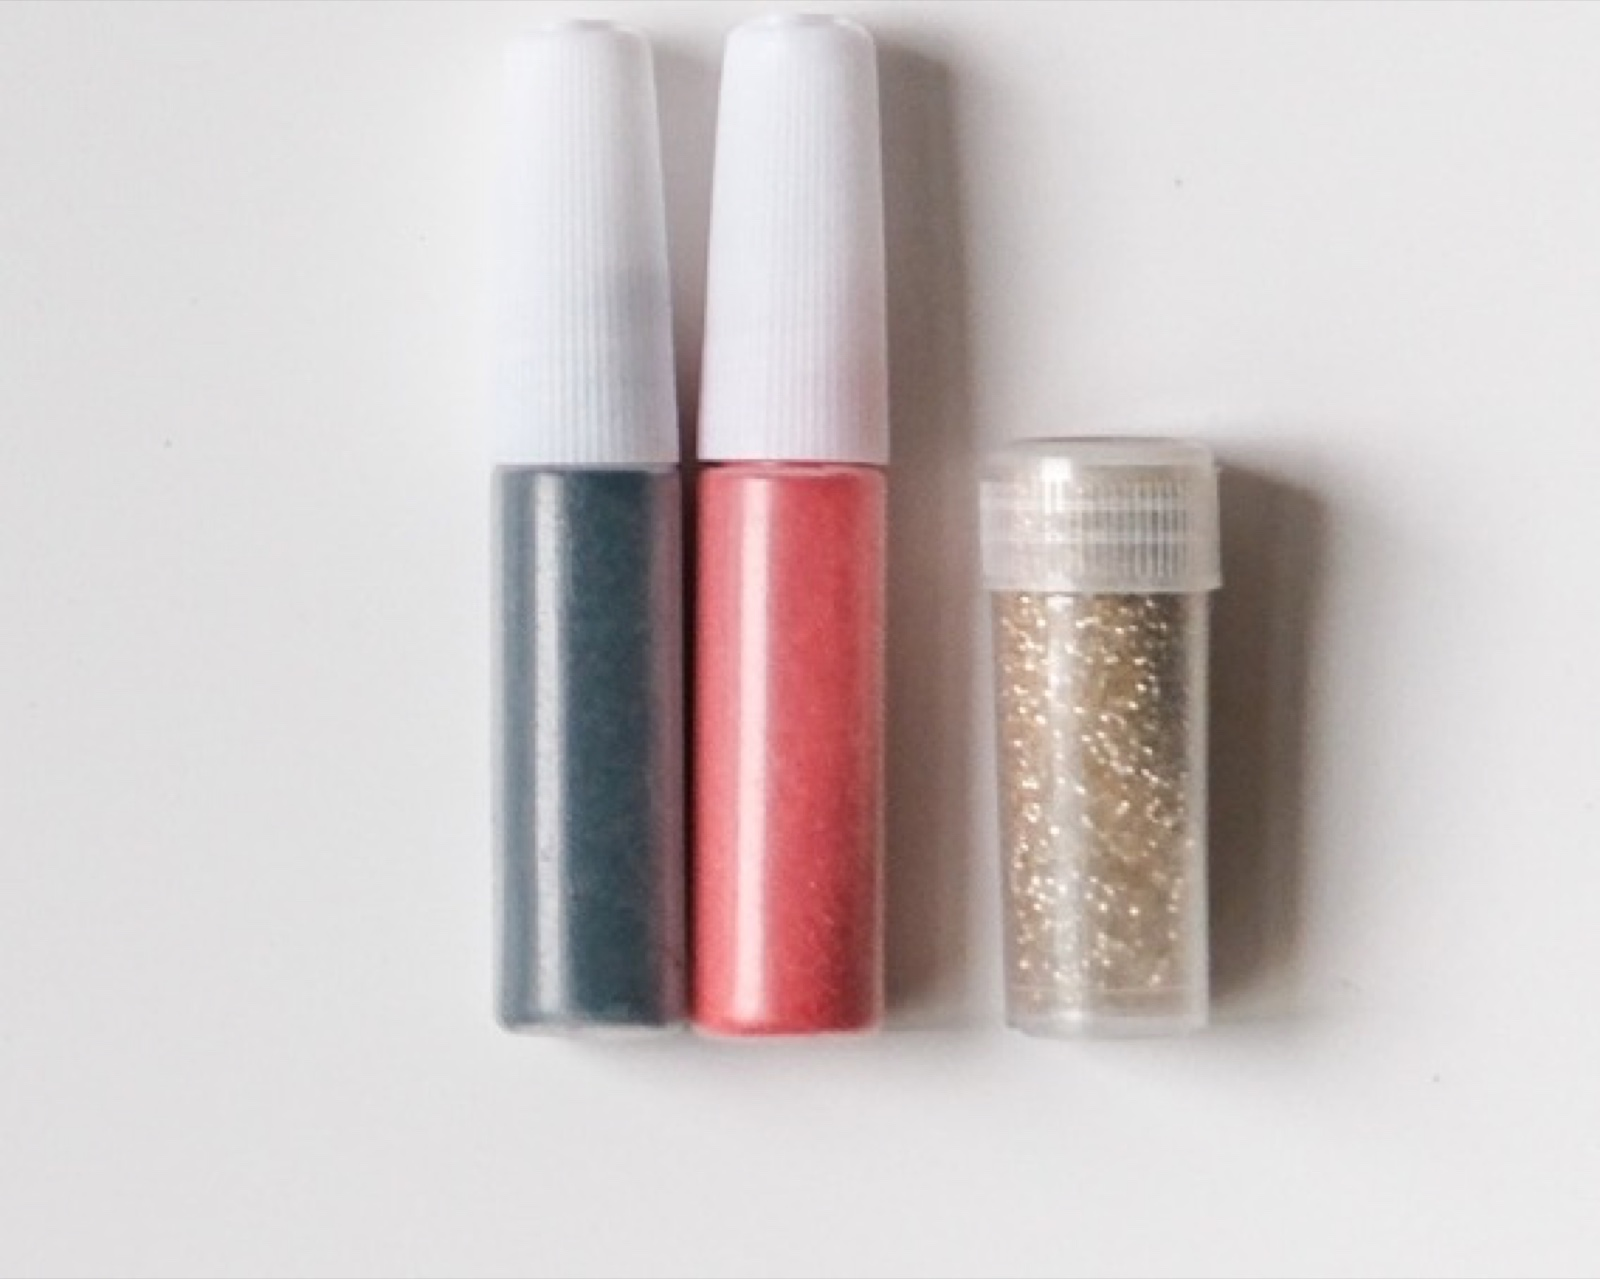
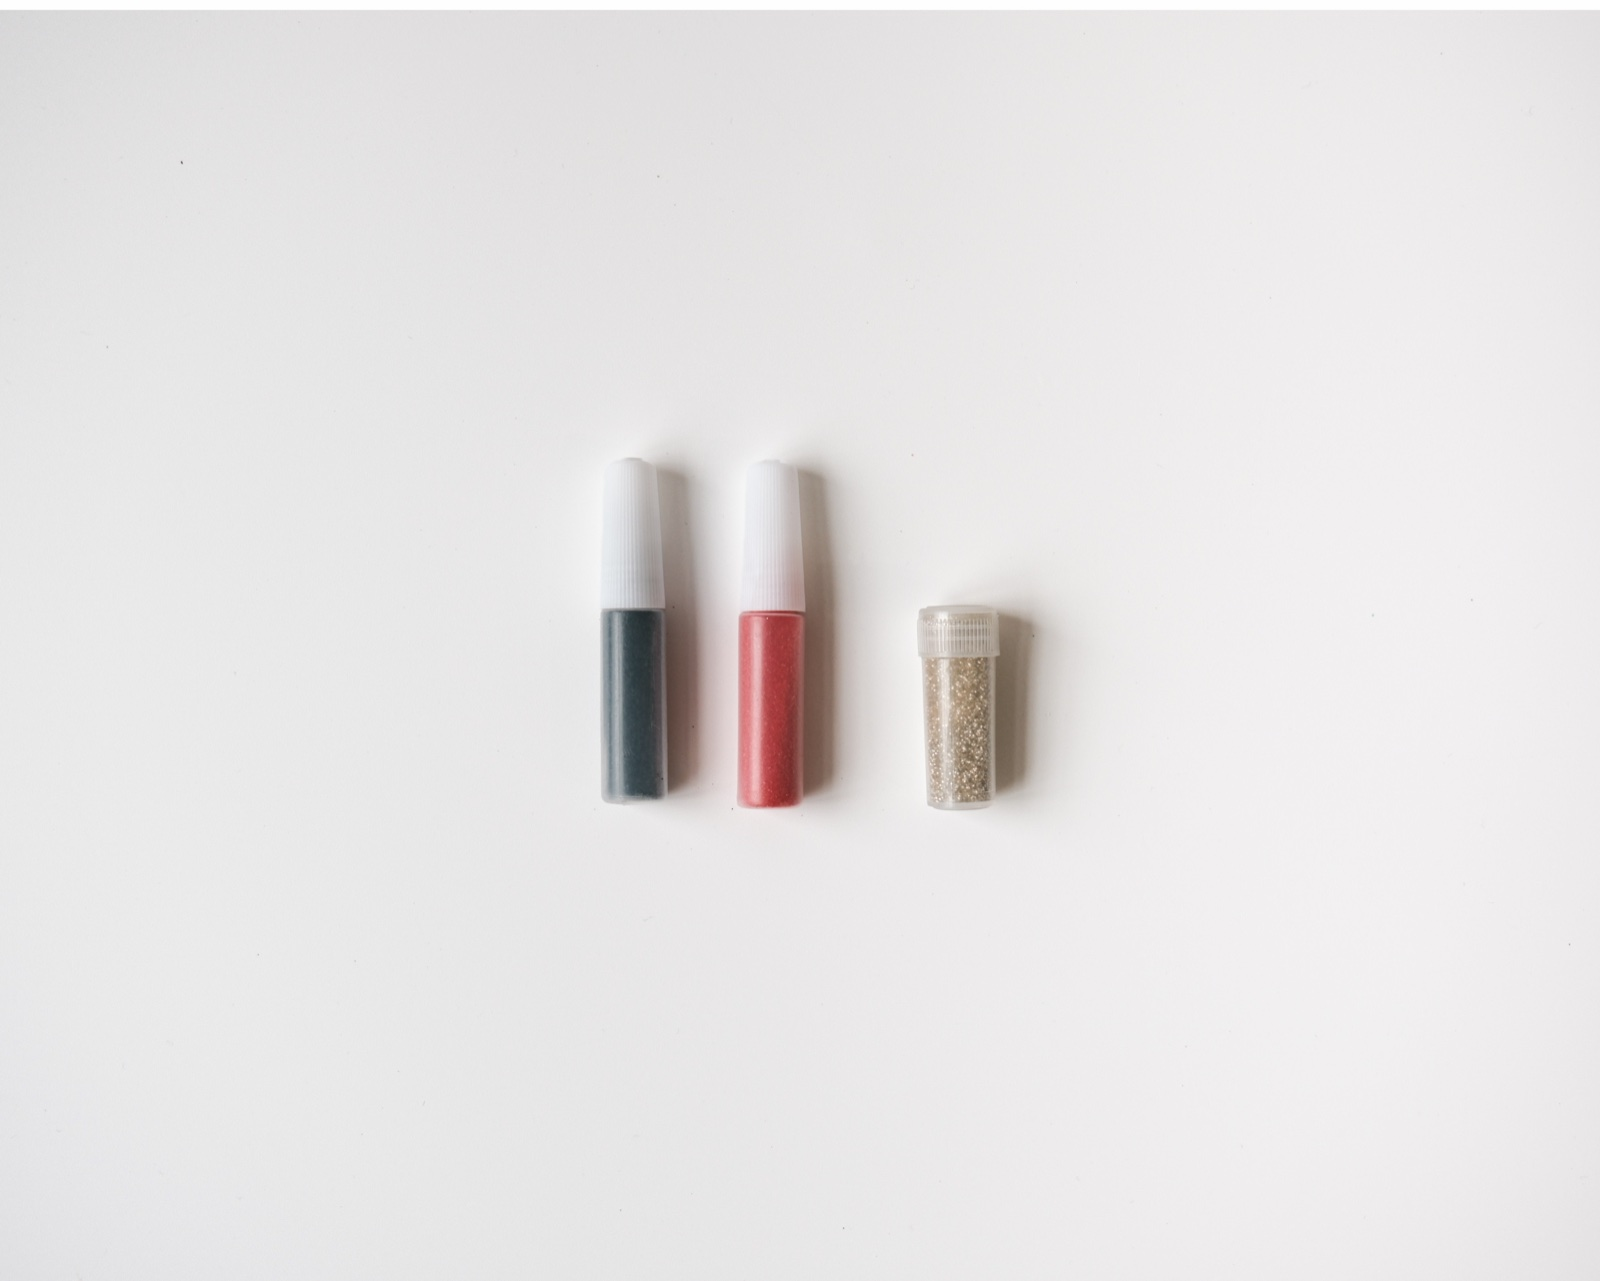
福、納福（格子版）、納福（燈籠版）、迎春（燈籠版）換上乾淨版顏色細節實拍照
四款原本的色沙材料細節展示圖是從大合照裡裁出來的，這次使用者重新單獨
拍了一張，福、納福格子版、納福燈籠版的色票順序跟著新照片的左右排列
重新調整（kit-list、顏色細節、商品介紹段落一併同步），迎春燈籠版順序
跟舊版一致不用重排。

diff --git a/products/sand-art-fu/index.html b/products/sand-art-fu/index.html
@@ -207,7 +207,7 @@
       <p class="chapter__intro fade-in delay-2">內附材料：</p>
       <ul class="kit-list fade-in delay-2">
         <li><span aria-hidden="true">✦</span><span>砂畫底板〔15×15cm〕... 1張</span></li>
-        <li><span aria-hidden="true">✦</span><span>分裝沙〔7色：白色、冰紫、粉紅、棗紅、洋黃、淺藍、青色〕... 每色1管</span></li>
+        <li><span aria-hidden="true">✦</span><span>分裝沙〔7色：白色、洋黃、冰紫、粉紅、淺藍、青色、棗紅〕... 每色1管</span></li>
         <li><span aria-hidden="true">✦</span><span>排刷 ... 1支</span></li>
         <li><span aria-hidden="true">✦</span><span>夾子 ... 1支</span></li>
         <li><span aria-hidden="true">✦</span><span>一次性防污桌布 ... 1張</span></li>
@@ -220,22 +220,22 @@
          補上跟「春」同一套 .color-swatches 色點列。跟「春」重複的色名
          （粉紅、冰紫、白）直接沿用同一個估色值，不重新估一次。
          2026-10-06：原本的「深膚」使用者確認要換成「淺藍」（CSS 變數
-         跟著改名為 --swatch-fu-light-blue），色票順序依新照片排序改成
-         白色、洋黃、青色、冰紫、粉紅、棗紅、淺藍；色沙材料細節展示圖
-         也用這批新照片裁出同樣順序的色票裁圖補上，不再是待補佔位。 -->
+         跟著改名為 --swatch-fu-light-blue）。2026-10-07 使用者換了一張
+         乾淨的分裝沙單獨拍攝照（取代舊的大合照裁圖），色票順序跟著這張
+         新照片改成白色、洋黃、冰紫、粉紅、淺藍、青色、棗紅。 -->
     <section class="chapter">
       <h2 class="chapter__title fade-in">顏色細節</h2>
       <ul class="color-swatches fade-in delay-1">
         <li class="color-swatch"><span class="color-swatch__dot" style="background: var(--swatch-fu-white)"></span><span class="color-swatch__label">白色</span></li>
+        <li class="color-swatch"><span class="color-swatch__dot" style="background: var(--swatch-fu-golden-yellow)"></span><span class="color-swatch__label">洋黃</span></li>
         <li class="color-swatch"><span class="color-swatch__dot" style="background: var(--swatch-fu-ice-purple)"></span><span class="color-swatch__label">冰紫</span></li>
         <li class="color-swatch"><span class="color-swatch__dot" style="background: var(--swatch-fu-pink)"></span><span class="color-swatch__label">粉紅</span></li>
-        <li class="color-swatch"><span class="color-swatch__dot" style="background: var(--swatch-fu-jujube-red)"></span><span class="color-swatch__label">棗紅</span></li>
-        <li class="color-swatch"><span class="color-swatch__dot" style="background: var(--swatch-fu-golden-yellow)"></span><span class="color-swatch__label">洋黃</span></li>
         <li class="color-swatch"><span class="color-swatch__dot" style="background: var(--swatch-fu-light-blue)"></span><span class="color-swatch__label">淺藍</span></li>
         <li class="color-swatch"><span class="color-swatch__dot" style="background: var(--swatch-fu-cyan)"></span><span class="color-swatch__label">青色</span></li>
+        <li class="color-swatch"><span class="color-swatch__dot" style="background: var(--swatch-fu-jujube-red)"></span><span class="color-swatch__label">棗紅</span></li>
       </ul>
       <div class="chapter__banner-photo fade-in delay-2">
-        <img src="../../assets/images/products/sand-art-fu/sand-art-fu-colors.jpg" alt="春聯砂畫材料包・福 分裝沙七色實拍，由左至右：白色、冰紫、粉紅、棗紅、洋黃、淺藍、青色" loading="lazy">
+        <img src="../../assets/images/products/sand-art-fu/sand-art-fu-colors.jpg" alt="春聯砂畫材料包・福 分裝沙七色實拍，由左至右：白色、洋黃、冰紫、粉紅、淺藍、青色、棗紅" loading="lazy">
       </div>
     </section>
 
@@ -250,9 +250,9 @@
 
       <div class="chapter__block fade-in delay-1">
         <p class="chapter__statement">這次選用的配色</p>
-        <p class="chapter__prose">底色：棗紅<br>自由搭配：白色、洋黃、青色、粉紅、冰紫、淺藍</p>
+        <p class="chapter__prose">底色：棗紅<br>自由搭配：白色、洋黃、冰紫、粉紅、淺藍、青色</p>
         <p class="chapter__prose">選用較深的棗紅作底，襯托出淺色顯色的層次，深淺對比讓每一種配色都好看，很難失敗。</p>
-        <p class="chapter__prose">白色、洋黃、青色、粉紅、冰紫、淺藍，六種顏色，不只落在星星上，也能倒進福字裡。</p>
+        <p class="chapter__prose">白色、洋黃、冰紫、粉紅、淺藍、青色，六種顏色，不只落在星星上，也能倒進福字裡。</p>
       </div>
 
       <div class="chapter__block fade-in delay-2">

diff --git a/products/sand-art-na-fu/index.html b/products/sand-art-na-fu/index.html
@@ -189,7 +189,7 @@
       <p class="chapter__intro fade-in delay-2">內附材料：</p>
       <ul class="kit-list fade-in delay-2">
         <li><span aria-hidden="true">✦</span><span>砂畫底板〔15×15cm〕... 1張</span></li>
-        <li><span aria-hidden="true">✦</span><span>細砂〔5色：湖藍、孔綠、桔紅、墨藍、酒紅〕... 每色1管</span></li>
+        <li><span aria-hidden="true">✦</span><span>細砂〔5色：桔紅、湖藍、孔綠、墨藍、酒紅〕... 每色1管</span></li>
         <li><span aria-hidden="true">✦</span><span>亮粉〔2色：鉑金、香檳銀〕... 每色1管</span></li>
         <li><span aria-hidden="true">✦</span><span>排刷 ... 1支</span></li>
         <li><span aria-hidden="true">✦</span><span>夾子 ... 1支</span></li>
@@ -198,21 +198,22 @@
       </ul>
     </section>
 
-    <!-- 第四章：顏色細節。色碼依材料平拍照（春聯沙畫平放照片-2.jpg）肉眼
-         取色，亮粉兩色是閃粉質感，色碼只能抓大概色調，不是精確色號。 -->
+    <!-- 第四章：顏色細節。2026-10-07 換上使用者新拍的乾淨單獨實拍照，
+         色票順序跟著改成照片裡由左至右的排列：桔紅、湖藍、孔綠、墨藍
+         四管細砂，接著是酒紅（裝在跟亮粉同款小罐）、鉑金、香檳銀。 -->
     <section class="chapter">
       <h2 class="chapter__title fade-in">顏色細節</h2>
       <ul class="color-swatches fade-in delay-1">
+        <li class="color-swatch"><span class="color-swatch__dot" style="background: var(--swatch-nafu-orange-red)"></span><span class="color-swatch__label">桔紅</span></li>
         <li class="color-swatch"><span class="color-swatch__dot" style="background: var(--swatch-nafu-lake-blue)"></span><span class="color-swatch__label">湖藍</span></li>
         <li class="color-swatch"><span class="color-swatch__dot" style="background: var(--swatch-nafu-peacock-green)"></span><span class="color-swatch__label">孔綠</span></li>
-        <li class="color-swatch"><span class="color-swatch__dot" style="background: var(--swatch-nafu-orange-red)"></span><span class="color-swatch__label">桔紅</span></li>
         <li class="color-swatch"><span class="color-swatch__dot" style="background: var(--swatch-nafu-ink-blue)"></span><span class="color-swatch__label">墨藍</span></li>
         <li class="color-swatch"><span class="color-swatch__dot" style="background: var(--swatch-nafu-wine-red)"></span><span class="color-swatch__label">酒紅</span></li>
         <li class="color-swatch"><span class="color-swatch__dot" style="background: var(--swatch-nafu-platinum)"></span><span class="color-swatch__label">鉑金</span></li>
         <li class="color-swatch"><span class="color-swatch__dot" style="background: var(--swatch-nafu-champagne-silver)"></span><span class="color-swatch__label">香檳銀</span></li>
       </ul>
       <div class="chapter__banner-photo fade-in delay-2">
-        <img src="../../assets/images/products/sand-art-na-fu/sand-art-na-fu-colors.jpg" alt="春聯砂畫材料包・納福（格子版） 色沙材料實拍，細砂湖藍、桔紅、孔綠、墨藍四管，亮粉鉑金、香檳銀與細砂酒紅三小罐" loading="lazy">
+        <img src="../../assets/images/products/sand-art-na-fu/sand-art-na-fu-colors.jpg" alt="春聯砂畫材料包・納福（格子版） 色沙材料實拍，由左至右：桔紅、湖藍、孔綠、墨藍四管細砂，酒紅、鉑金、香檳銀三小罐" loading="lazy">
       </div>
     </section>
 

diff --git a/products/sand-art-na-fu-lantern/index.html b/products/sand-art-na-fu-lantern/index.html
@@ -182,7 +182,7 @@
       <p class="chapter__intro fade-in delay-2">內附材料：</p>
       <ul class="kit-list fade-in delay-2">
         <li><span aria-hidden="true">✦</span><span>砂畫底板〔15×15cm〕... 1張</span></li>
-        <li><span aria-hidden="true">✦</span><span>細砂〔2色：紅色、孔綠〕... 每色1管</span></li>
+        <li><span aria-hidden="true">✦</span><span>細砂〔2色：孔綠、紅色〕... 每色1管</span></li>
         <li><span aria-hidden="true">✦</span><span>亮粉〔1色：鉑金〕... 1管</span></li>
         <li><span aria-hidden="true">✦</span><span>排刷 ... 1支</span></li>
         <li><span aria-hidden="true">✦</span><span>夾子 ... 1支</span></li>
@@ -191,13 +191,13 @@
       </ul>
     </section>
 
-    <!-- 第四章：顏色細節。色碼依材料平拍照（春聯沙畫平放照片-4.jpg）
-         肉眼取色，亮粉是閃粉質感，色碼只能抓大概色調，不是精確色號。 -->
+    <!-- 第四章：顏色細節。2026-10-07 換上使用者新拍的乾淨單獨實拍照，
+         色票順序跟著改成照片裡由左至右的排列：孔綠、紅色、鉑金。 -->
     <section class="chapter">
       <h2 class="chapter__title fade-in">顏色細節</h2>
       <ul class="color-swatches fade-in delay-1">
-        <li class="color-swatch"><span class="color-swatch__dot" style="background: var(--swatch-nafu-lantern-red)"></span><span class="color-swatch__label">紅色</span></li>
         <li class="color-swatch"><span class="color-swatch__dot" style="background: var(--swatch-nafu-lantern-peacock-green)"></span><span class="color-swatch__label">孔綠</span></li>
+        <li class="color-swatch"><span class="color-swatch__dot" style="background: var(--swatch-nafu-lantern-red)"></span><span class="color-swatch__label">紅色</span></li>
         <li class="color-swatch"><span class="color-swatch__dot" style="background: var(--swatch-nafu-lantern-platinum)"></span><span class="color-swatch__label">鉑金</span></li>
       </ul>
       <div class="chapter__banner-photo fade-in delay-2">

diff --git a/products/sand-art-ying-chun-lantern/index.html b/products/sand-art-ying-chun-lantern/index.html
@@ -196,8 +196,8 @@
       </ul>
     </section>
 
-    <!-- 第四章：顏色細節。色碼依材料平拍照（春聯沙畫平放照片-3.jpg）
-         肉眼取色，亮粉是閃粉質感，色碼只能抓大概色調，不是精確色號。 -->
+    <!-- 第四章：顏色細節。2026-10-07 換上使用者新拍的乾淨單獨實拍照
+         （取代舊的大合照裁圖），順序跟舊版一致，不用重排色票。 -->
     <section class="chapter">
       <h2 class="chapter__title fade-in">顏色細節</h2>
       <ul class="color-swatches fade-in delay-1">
